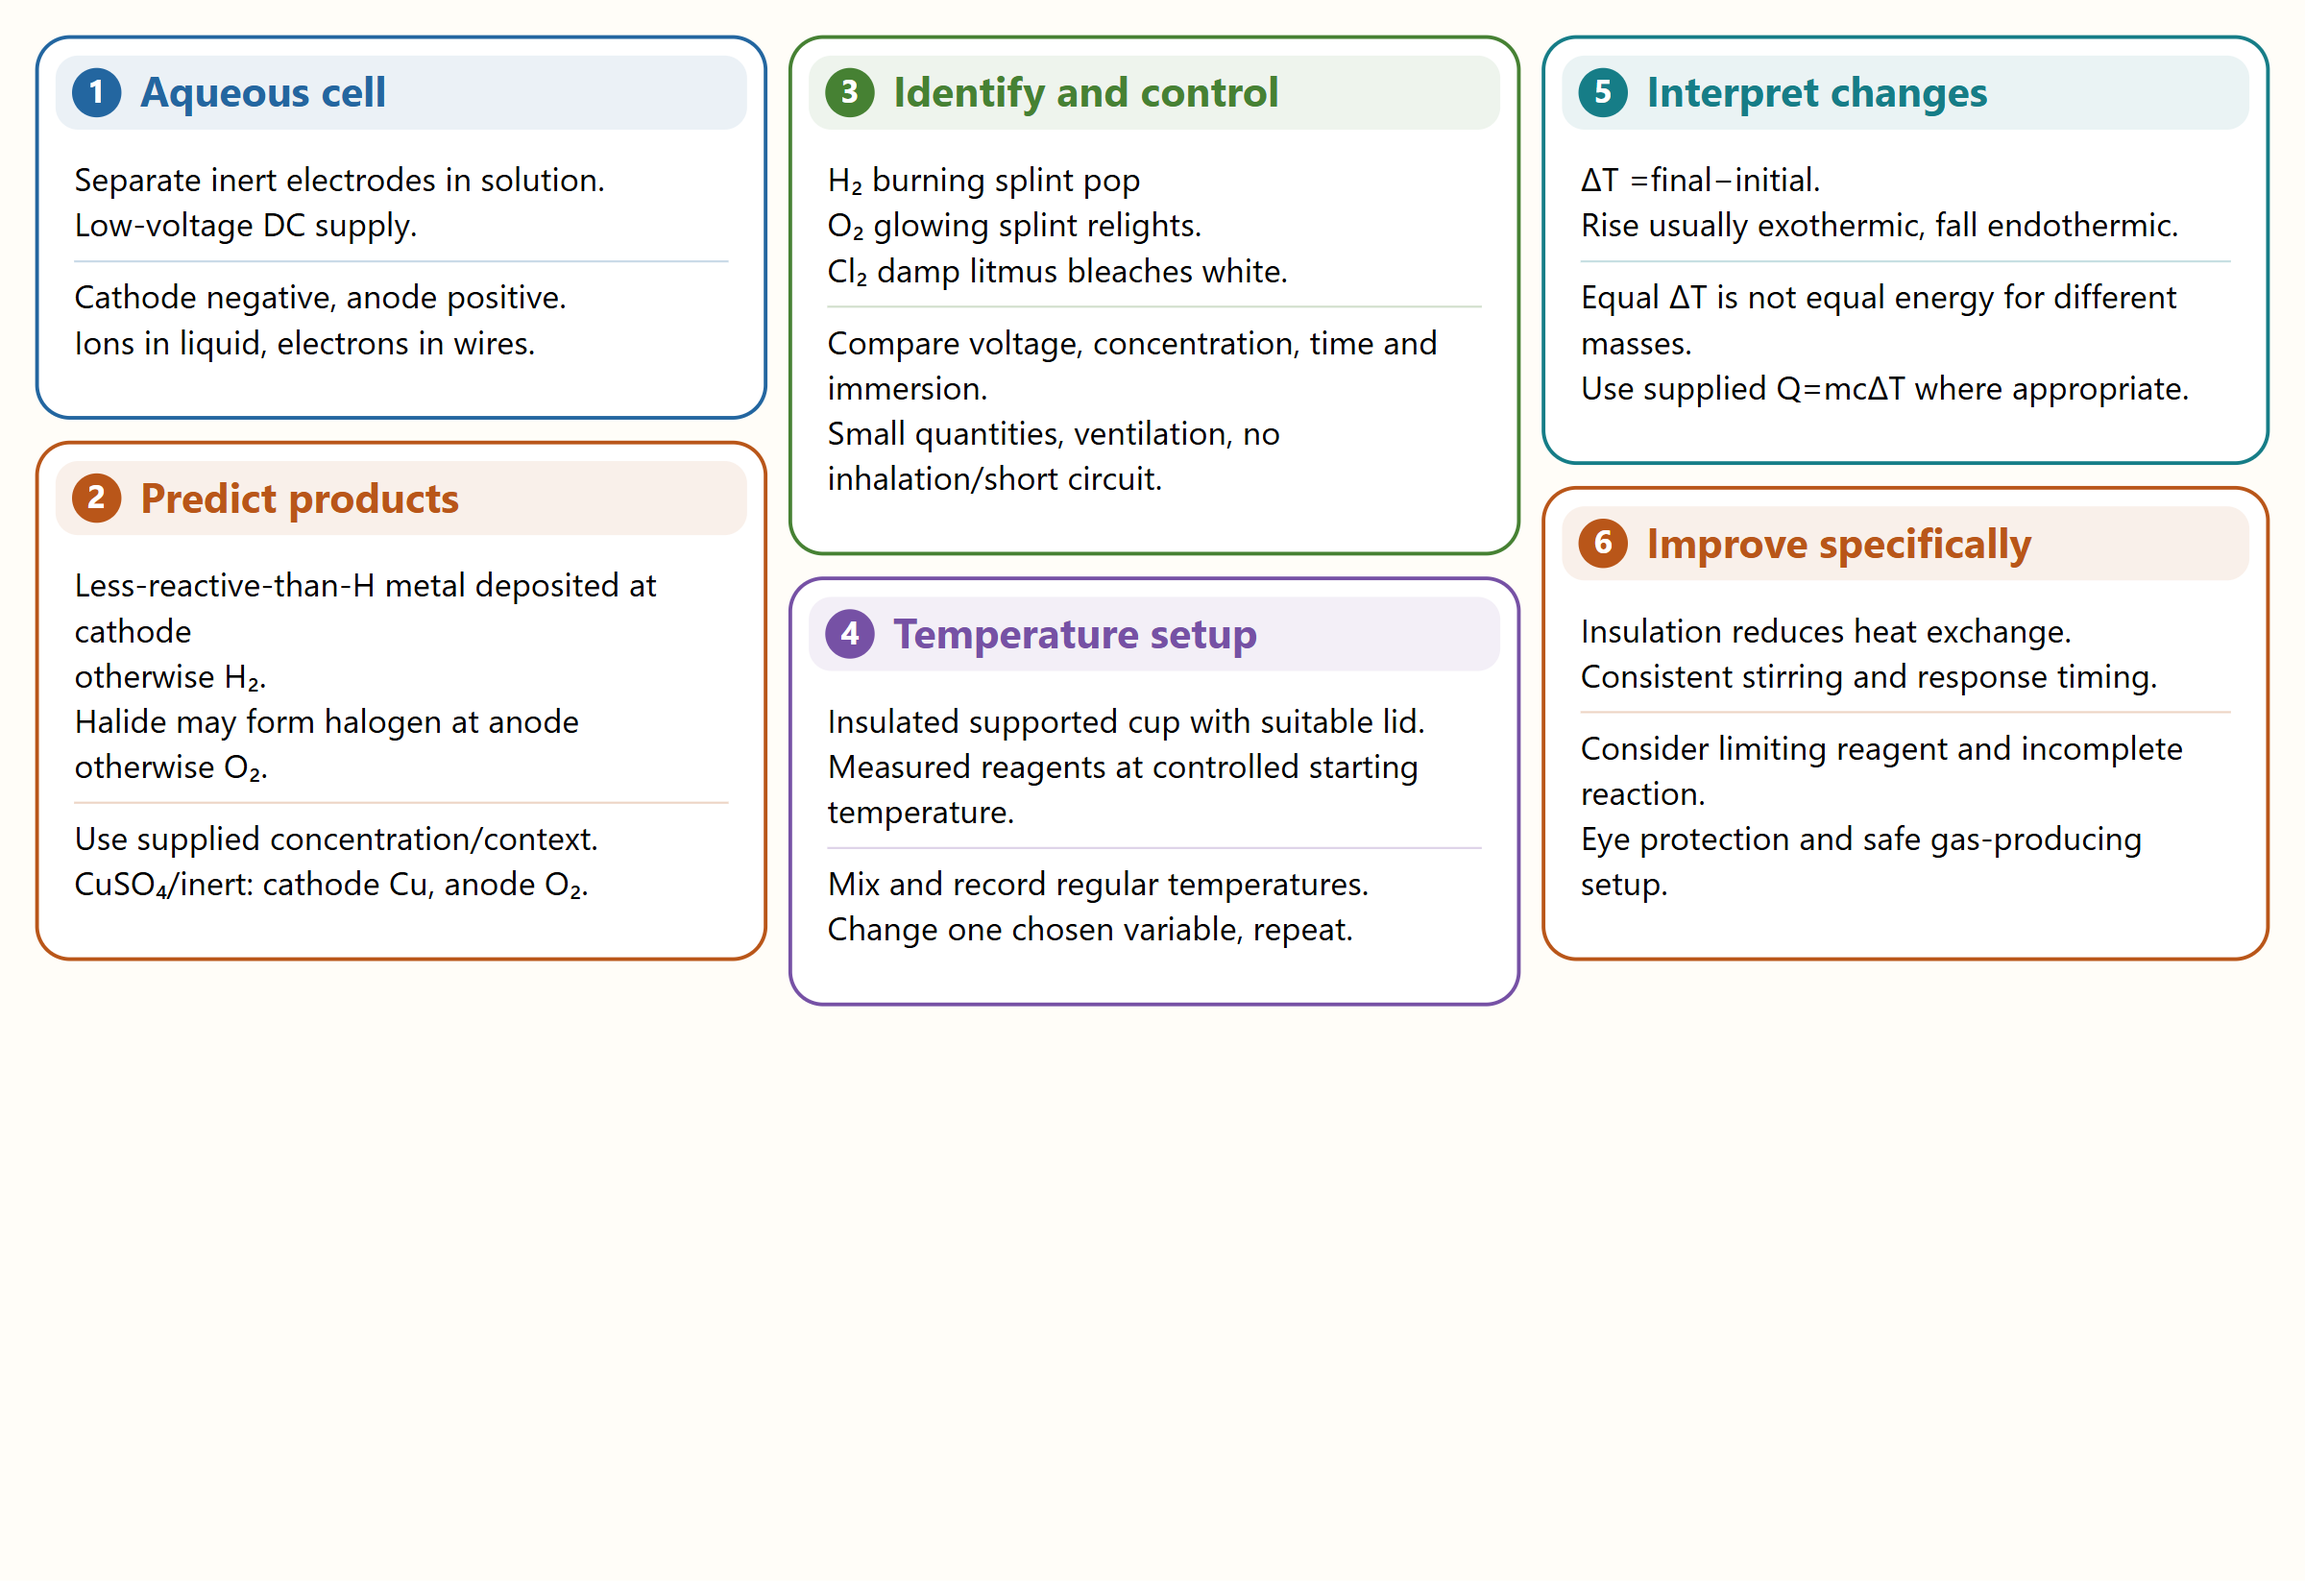
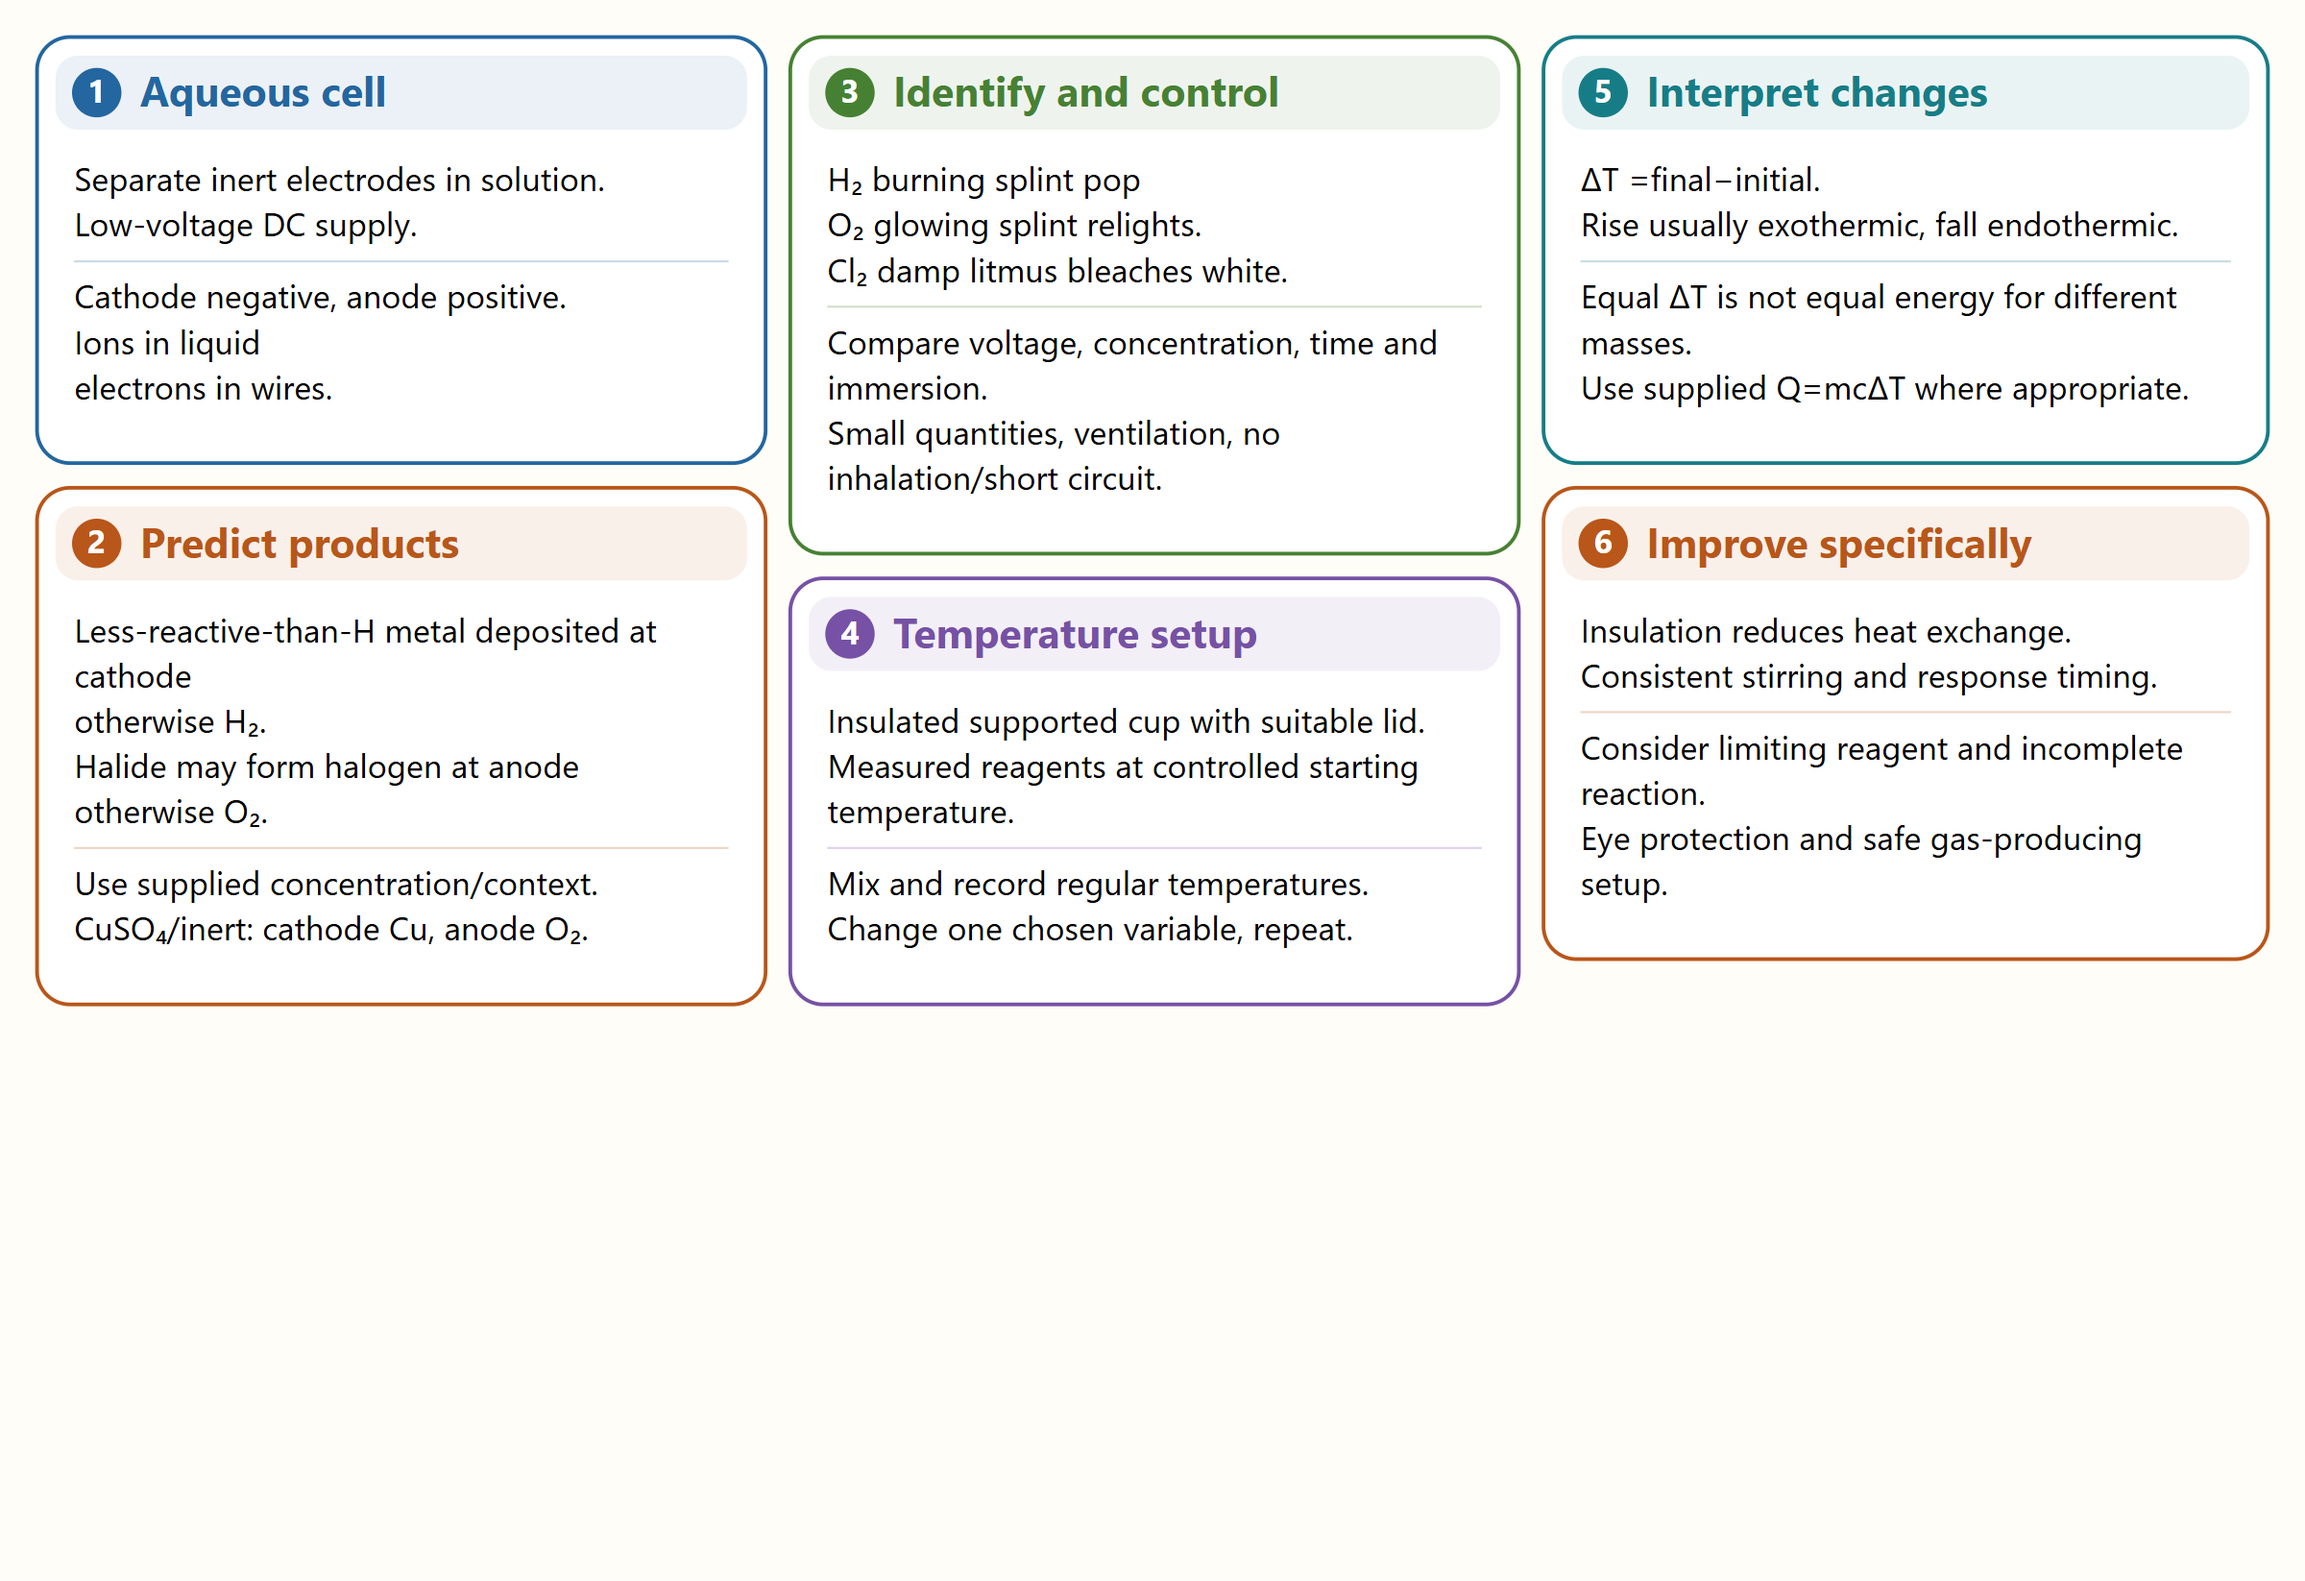
fix: review chemistry 11 mind-map equation layouts

Changed region(s): [[0.0, 0.2169, 0.3438, 0.6197], [0.3125, 0.5887, 0.3438, 0.6197]]

diff --git a/library/resources/chemistry-aqa-working-scientifically-and-required-practicals-05-analysis-and-water.html b/library/resources/chemistry-aqa-working-scientifically-and-required-practicals-05-analysis-and-water.html
@@ -12,7 +12,8 @@
 <h2>Cations</h2>
 <p>Clean loop: Li crimson, Na yellow, K lilac.</p>
 <p>Ca orange-red, Cu green flame.</p>
-<p>NaOH: Al/Ca/Mg white; Al dissolves in excess.</p>
+<p>NaOH: Al/Ca/Mg white</p>
+<p>Al dissolves in excess.</p>
 <p>Cu blue, Fe²⁺ green, Fe³⁺ brown precipitates.</p>
 <h2>Anions</h2>
 <p>Carbonate +acid: CO₂, limewater milky.</p>
@@ -25,7 +26,9 @@
 <p>Residue mass =final basin−empty mass.</p>
 <p>Distil water and compare samples.</p>
 <h2>Safety and conclusions</h2>
-<p>Open receiver; never distil dry.</p>
+<p>Open receiver</p>
+<p>never distil dry.</p>
 <p>Cooling jacket water separate from vapour.</p>
-<p>No tasting; normal pH alone not proof of potable water.</p>
+<p>No tasting</p>
+<p>normal pH alone not proof of potable water.</p>
 <p>Small masses/contamination limit accuracy.</p></article></details><footer>GCSE preparation · 2027 · Your personal revision library</footer></main></div><script type="application/json" id="mindmap-catalog">[{"title": "Chemistry practical overview", "image": "../../Chemistry%20-%20AQA/11%20-%20Working%20scientifically%20and%20required%20practicals/Mind%20Maps/00-chemistry-practical-overview.svg", "thumbnail": "../../Chemistry%20-%20AQA/11%20-%20Working%20scientifically%20and%20required%20practicals/Mind%20Maps/00-chemistry-practical-overview.png", "page": "chemistry-aqa-working-scientifically-and-required-practicals-00-chemistry-practical-overview.html"}, {"title": "Investigation skills", "image": "../../Chemistry%20-%20AQA/11%20-%20Working%20scientifically%20and%20required%20practicals/Mind%20Maps/01-investigation-skills.svg", "thumbnail": "../../Chemistry%20-%20AQA/11%20-%20Working%20scientifically%20and%20required%20practicals/Mind%20Maps/01-investigation-skills.png", "page": "chemistry-aqa-working-scientifically-and-required-practicals-01-investigation-skills.html"}, {"title": "Salts and titration", "image": "../../Chemistry%20-%20AQA/11%20-%20Working%20scientifically%20and%20required%20practicals/Mind%20Maps/02-salts-and-titration.svg", "thumbnail": "../../Chemistry%20-%20AQA/11%20-%20Working%20scientifically%20and%20required%20practicals/Mind%20Maps/02-salts-and-titration.png", "page": "chemistry-aqa-working-scientifically-and-required-practicals-02-salts-and-titration.html"}, {"title": "Electrolysis and temperature", "image": "../../Chemistry%20-%20AQA/11%20-%20Working%20scientifically%20and%20required%20practicals/Mind%20Maps/03-electrolysis-and-temperature.svg", "thumbnail": "../../Chemistry%20-%20AQA/11%20-%20Working%20scientifically%20and%20required%20practicals/Mind%20Maps/03-electrolysis-and-temperature.png", "page": "chemistry-aqa-working-scientifically-and-required-practicals-03-electrolysis-and-temperature.html"}, {"title": "Concentration and rates", "image": "../../Chemistry%20-%20AQA/11%20-%20Working%20scientifically%20and%20required%20practicals/Mind%20Maps/04-concentration-and-rates.svg", "thumbnail": "../../Chemistry%20-%20AQA/11%20-%20Working%20scientifically%20and%20required%20practicals/Mind%20Maps/04-concentration-and-rates.png", "page": "chemistry-aqa-working-scientifically-and-required-practicals-04-concentration-and-rates.html"}, {"title": "Analysis and water", "image": "../../Chemistry%20-%20AQA/11%20-%20Working%20scientifically%20and%20required%20practicals/Mind%20Maps/05-analysis-and-water.svg", "thumbnail": "../../Chemistry%20-%20AQA/11%20-%20Working%20scientifically%20and%20required%20practicals/Mind%20Maps/05-analysis-and-water.png", "page": "chemistry-aqa-working-scientifically-and-required-practicals-05-analysis-and-water.html"}]</script><dialog class="mindmap-dialog" id="mindmap-dialog" aria-labelledby="mindmap-dialog-title"><div class="mindmap-toolbar"><h2 id="mindmap-dialog-title">Mind maps</h2><div class="mindmap-controls"><button type="button" data-map-action="gallery">← All maps</button><span class="mindmap-sequence"><button type="button" data-map-action="previous" aria-label="Previous mind map">← Previous</button><output id="mindmap-position" aria-label="Mind map position" aria-live="polite"></output><button type="button" data-map-action="next" aria-label="Next mind map">Next →</button></span><span class="mindmap-zoom-controls"><button type="button" data-map-action="out" aria-label="Zoom out">−</button><output id="mindmap-zoom" aria-label="Zoom level" aria-live="polite">100%</output><button type="button" data-map-action="in" aria-label="Zoom in">+</button><button type="button" data-map-action="fit">Fit</button><button type="button" data-map-action="actual">100%</button></span><a id="mindmap-text-link" href="#">Text version</a><button type="button" data-map-action="print">Print</button><button type="button" data-map-action="close" aria-label="Close mind map">Close ×</button></div></div><div class="mindmap-modal-gallery"><div class="mindmap-grid"></div></div><div class="mindmap-canvas" tabindex="0" aria-label="Mind map; use zoom buttons and scroll to explore"><div class="mindmap-stage"><img id="mindmap-full-image" alt="" draggable="false"></div></div><p class="mindmap-load-error" role="alert" hidden>Unable to load this map. <a href="#">Open the map page</a></p></dialog></body></html>

diff --git a/library/resources/chemistry-aqa-working-scientifically-and-required-practicals-03-electrolysis-and-temperature.html b/library/resources/chemistry-aqa-working-scientifically-and-required-practicals-03-electrolysis-and-temperature.html
@@ -3,14 +3,18 @@
 <p>Separate inert electrodes in solution.</p>
 <p>Low-voltage DC supply.</p>
 <p>Cathode negative, anode positive.</p>
-<p>Ions in liquid, electrons in wires.</p>
+<p>Ions in liquid</p>
+<p>electrons in wires.</p>
 <h2>Predict products</h2>
-<p>Less-reactive-than-H metal deposited at cathode; otherwise H₂.</p>
-<p>Halide may form halogen at anode; otherwise O₂.</p>
+<p>Less-reactive-than-H metal deposited at cathode</p>
+<p>otherwise H₂.</p>
+<p>Halide may form halogen at anode</p>
+<p>otherwise O₂.</p>
 <p>Use supplied concentration/context.</p>
 <p>CuSO₄/inert: cathode Cu, anode O₂.</p>
 <h2>Identify and control</h2>
-<p>H₂ burning splint pop; O₂ glowing splint relights.</p>
+<p>H₂ burning splint pop</p>
+<p>O₂ glowing splint relights.</p>
 <p>Cl₂ damp litmus bleaches white.</p>
 <p>Compare voltage, concentration, time and immersion.</p>
 <p>Small quantities, ventilation, no inhalation/short circuit.</p>

diff --git a/library/resources/chemistry-aqa-working-scientifically-and-required-practicals-04-concentration-and-rates.html b/library/resources/chemistry-aqa-working-scientifically-and-required-practicals-04-concentration-and-rates.html
@@ -23,7 +23,8 @@
 <p>Higher concentration: more particles per unit volume.</p>
 <p>More frequent successful collisions.</p>
 <p>Consumed reactants reduce frequency over time.</p>
-<p>Temperature changes energy too; keep it controlled.</p>
+<p>Temperature changes energy too</p>
+<p>keep it controlled.</p>
 <h2>Safe and repeatable</h2>
 <p>Eye protection and dilute/small amounts.</p>
 <p>Ventilate sulfur-dioxide-producing reaction.</p>

diff --git a/library/resources/chemistry-aqa-working-scientifically-and-required-practicals-02-salts-and-titration.html b/library/resources/chemistry-aqa-working-scientifically-and-required-practicals-02-salts-and-titration.html
@@ -20,7 +20,8 @@
 <p>Titre = final−initial reading.</p>
 <p>Rough run then concordant careful repeats.</p>
 <h2>Concentration steps</h2>
-<p>Convert cm³ to dm³. Moles =cV.</p>
+<p>Convert cm³ to dm³.</p>
+<p>Moles =cV.</p>
 <p>Use balanced equation ratio.</p>
 <p>Unknown c =moles/its volume.</p>
 <p>g dm⁻³ =mol dm⁻³ ×Mr.</p>

diff --git a/Chemistry - AQA/11 - Working scientifically and required practicals/Mind Maps/03-electrolysis-and-temperature.md b/Chemistry - AQA/11 - Working scientifically and required practicals/Mind Maps/03-electrolysis-and-temperature.md
@@ -8,13 +8,19 @@ Low-voltage DC supply.
 
 Cathode negative, anode positive.
 
-Ions in liquid, electrons in wires.
+Ions in liquid
+
+electrons in wires.
 
 ## Predict products
 
-Less-reactive-than-H metal deposited at cathode; otherwise H₂.
+Less-reactive-than-H metal deposited at cathode
 
-Halide may form halogen at anode; otherwise O₂.
+otherwise H₂.
+
+Halide may form halogen at anode
+
+otherwise O₂.
 
 Use supplied concentration/context.
 
@@ -22,7 +28,9 @@ CuSO₄/inert: cathode Cu, anode O₂.
 
 ## Identify and control
 
-H₂ burning splint pop; O₂ glowing splint relights.
+H₂ burning splint pop
+
+O₂ glowing splint relights.
 
 Cl₂ damp litmus bleaches white.
 

diff --git a/Chemistry - AQA/11 - Working scientifically and required practicals/Mind Maps/05-analysis-and-water.md b/Chemistry - AQA/11 - Working scientifically and required practicals/Mind Maps/05-analysis-and-water.md
@@ -26,7 +26,9 @@ Clean loop: Li crimson, Na yellow, K lilac.
 
 Ca orange-red, Cu green flame.
 
-NaOH: Al/Ca/Mg white; Al dissolves in excess.
+NaOH: Al/Ca/Mg white
+
+Al dissolves in excess.
 
 Cu blue, Fe²⁺ green, Fe³⁺ brown precipitates.
 
@@ -52,10 +54,14 @@ Distil water and compare samples.
 
 ## Safety and conclusions
 
-Open receiver; never distil dry.
+Open receiver
+
+never distil dry.
 
 Cooling jacket water separate from vapour.
 
-No tasting; normal pH alone not proof of potable water.
+No tasting
+
+normal pH alone not proof of potable water.
 
 Small masses/contamination limit accuracy.

diff --git a/Chemistry - AQA/11 - Working scientifically and required practicals/Mind Maps/04-concentration-and-rates.md b/Chemistry - AQA/11 - Working scientifically and required practicals/Mind Maps/04-concentration-and-rates.md
@@ -48,7 +48,9 @@ More frequent successful collisions.
 
 Consumed reactants reduce frequency over time.
 
-Temperature changes energy too; keep it controlled.
+Temperature changes energy too
+
+keep it controlled.
 
 ## Safe and repeatable
 

diff --git a/Chemistry - AQA/11 - Working scientifically and required practicals/Mind Maps/02-salts-and-titration.md b/Chemistry - AQA/11 - Working scientifically and required practicals/Mind Maps/02-salts-and-titration.md
@@ -42,7 +42,9 @@ Rough run then concordant careful repeats.
 
 ## Concentration steps
 
-Convert cm³ to dm³. Moles =cV.
+Convert cm³ to dm³.
+
+Moles =cV.
 
 Use balanced equation ratio.
 
